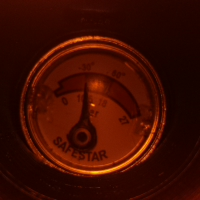
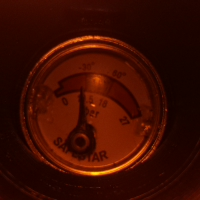
kldsajkmdsla

diff --git a/image_processing/python/ta_bild.py b/image_processing/python/ta_bild.py
@@ -3,7 +3,7 @@ from picamera import PiCamera
 
 camera = PiCamera()
 
-camera.resolution = (500, 500)
+camera.resolution = (200, 200)
 camera.start_preview()
 sleep(2)
-camera.capture("test.jpg")
+camera.capture("test2.jpg")
